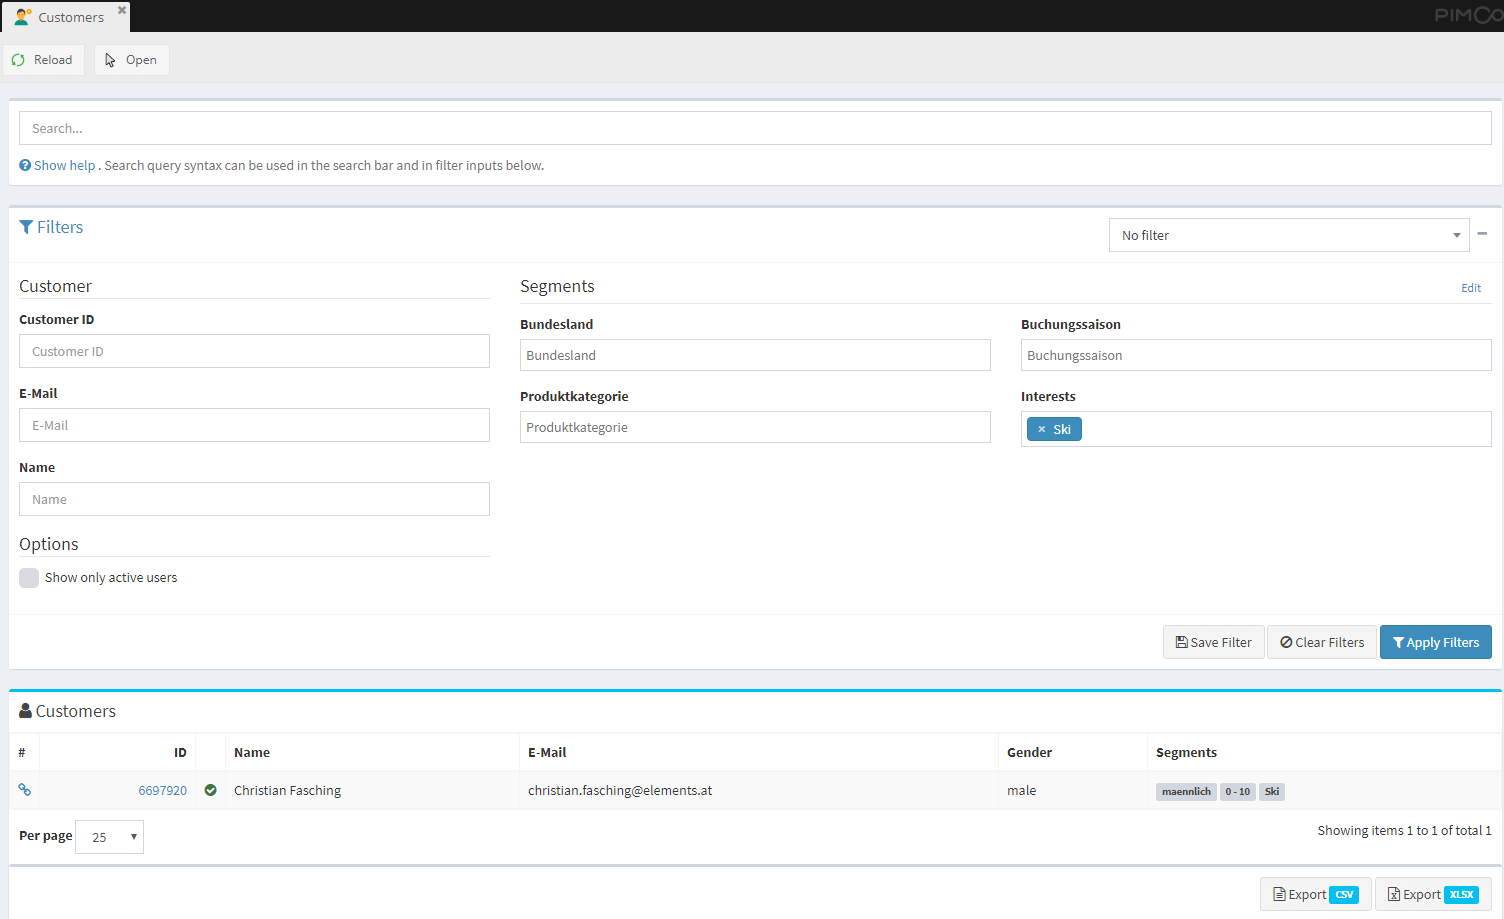
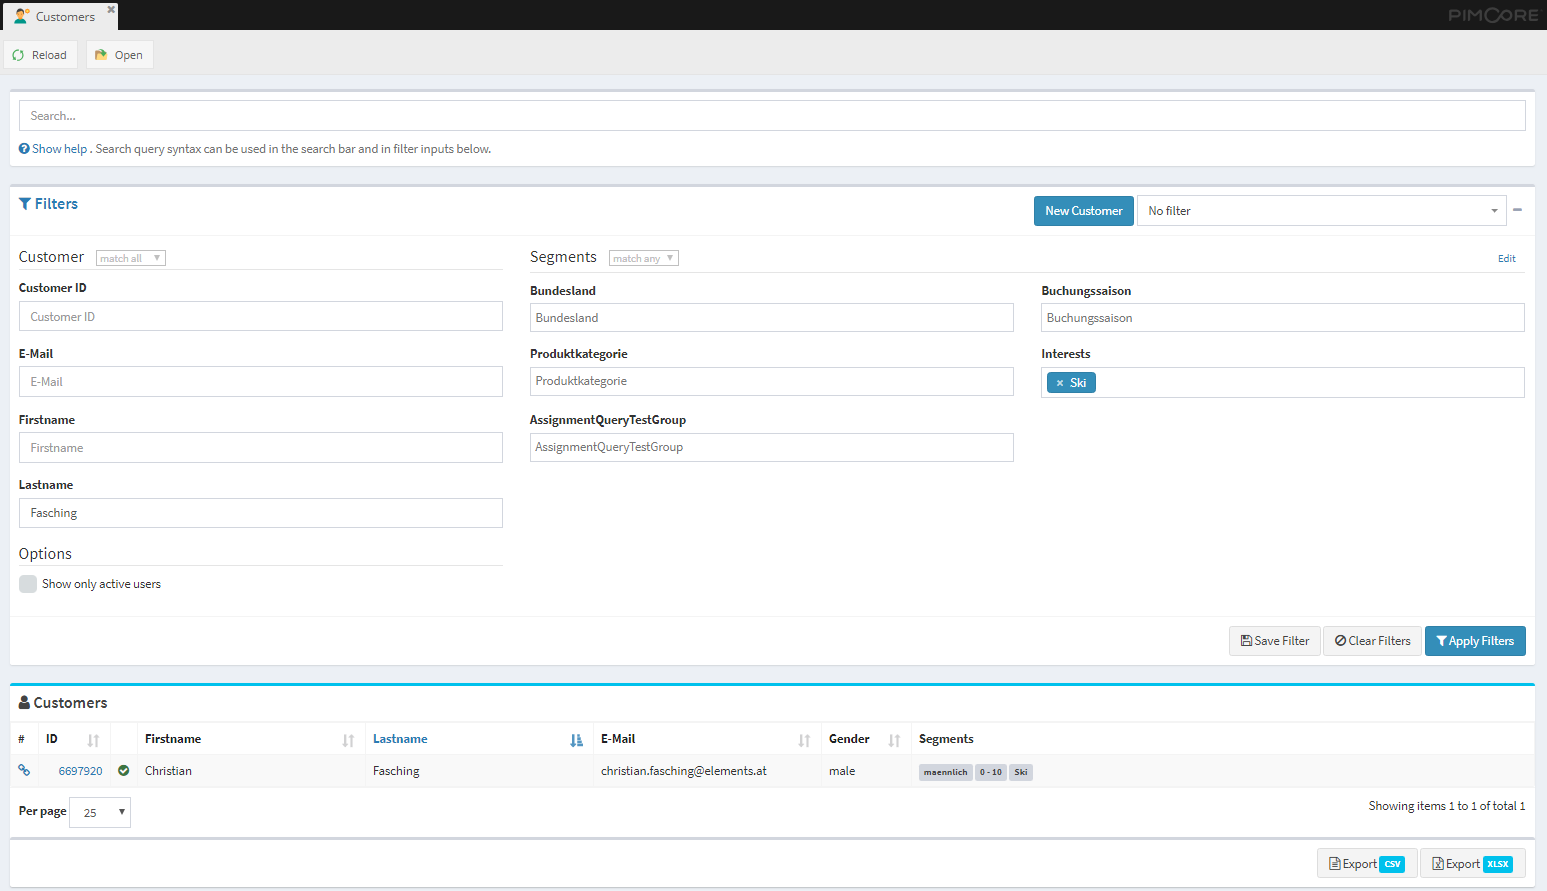
[DOCU][CUSTOMER VIEW]

diff --git a/doc/28_ListViews.md b/doc/28_ListViews.md
@@ -10,6 +10,11 @@ filter criteria independently of their location in the object tree. Although use
 
 ![Customers of a CustomerSegment](./img/customer-list-2.png)
 
+There are "Customer" filters and "Segments" filters. It is possible to choose between "or" (match any) and "and" (match all) conditions.
+Please note that the condition between customer and segments filters is always "and".
+ 
+The list can be sorted by clicking on the column headers.
+
 #### Configuration options
 - **Search Columns**: In [CMF configuration](./03_Configuration.md) it can be configured which columns should be considered 
   during searching and filtering in the customer list. For details see the [CMF configuration section](./03_Configuration.md).
